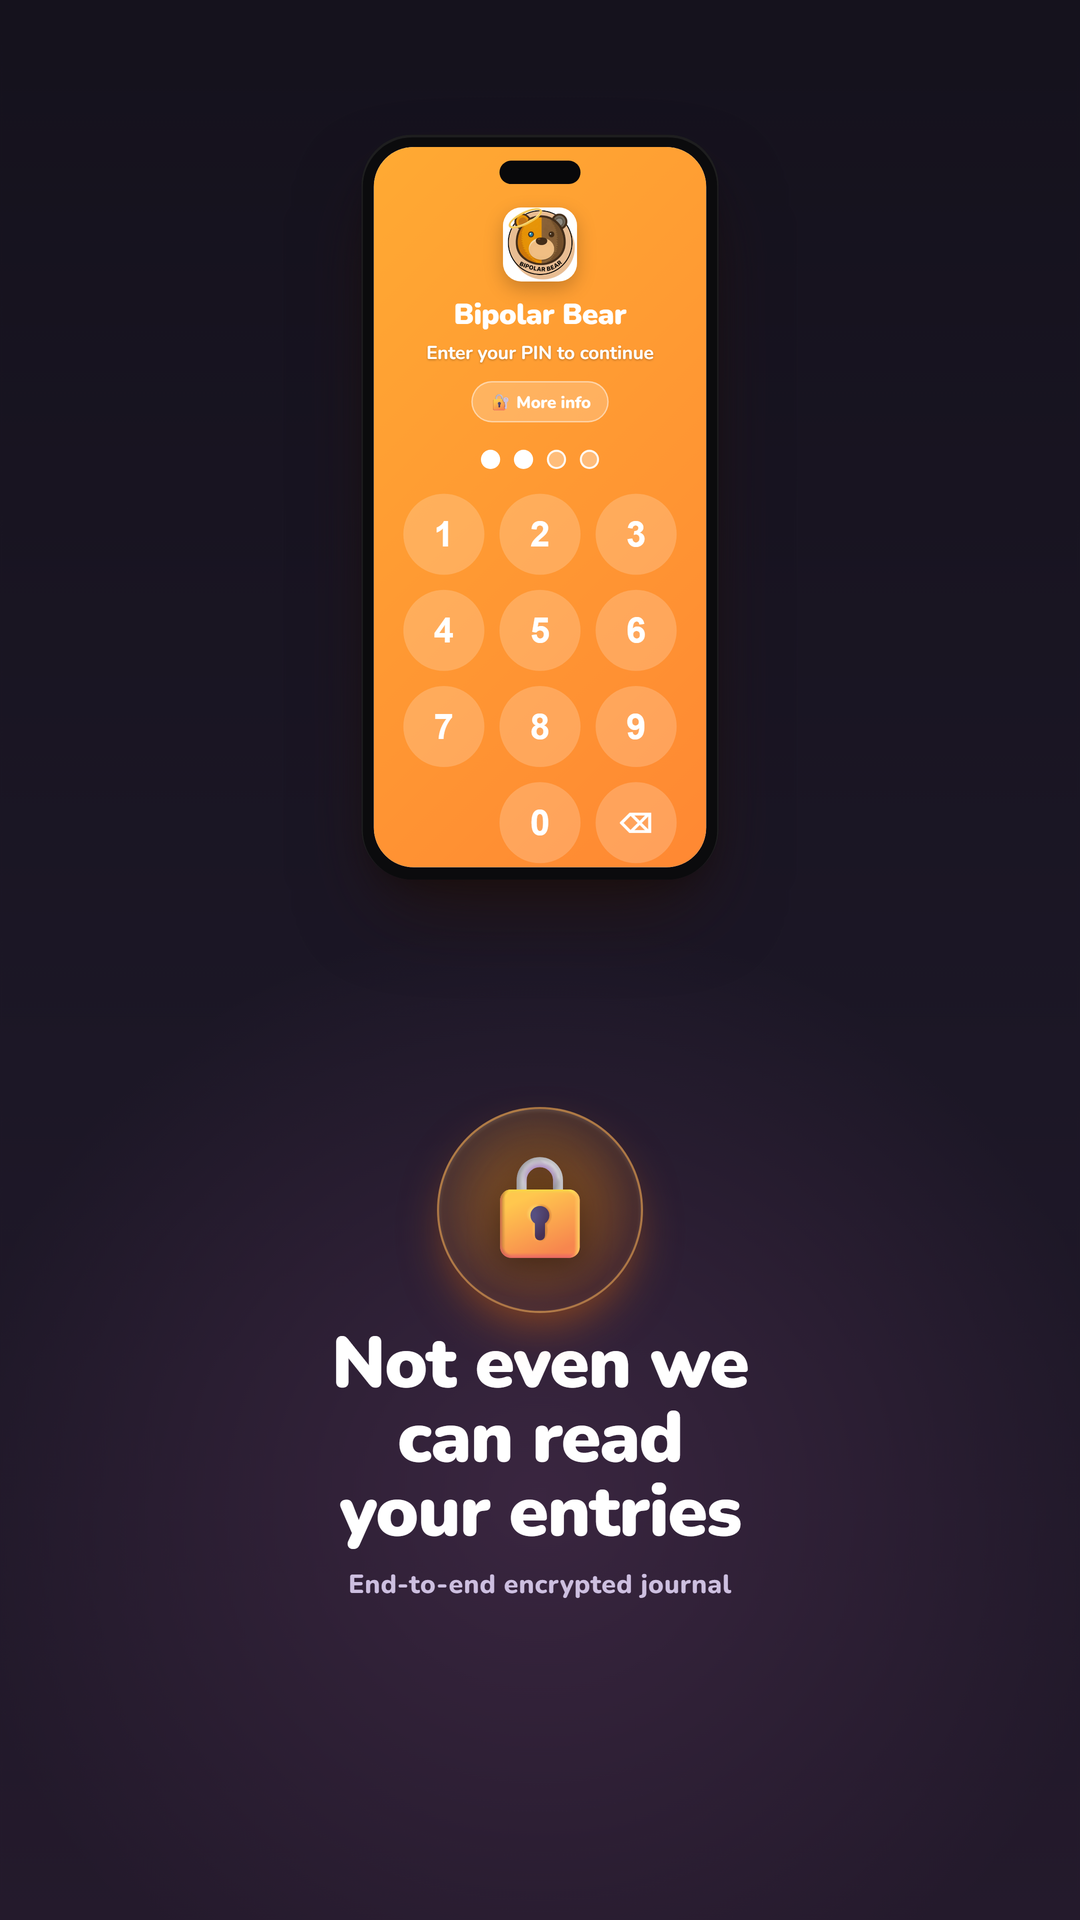
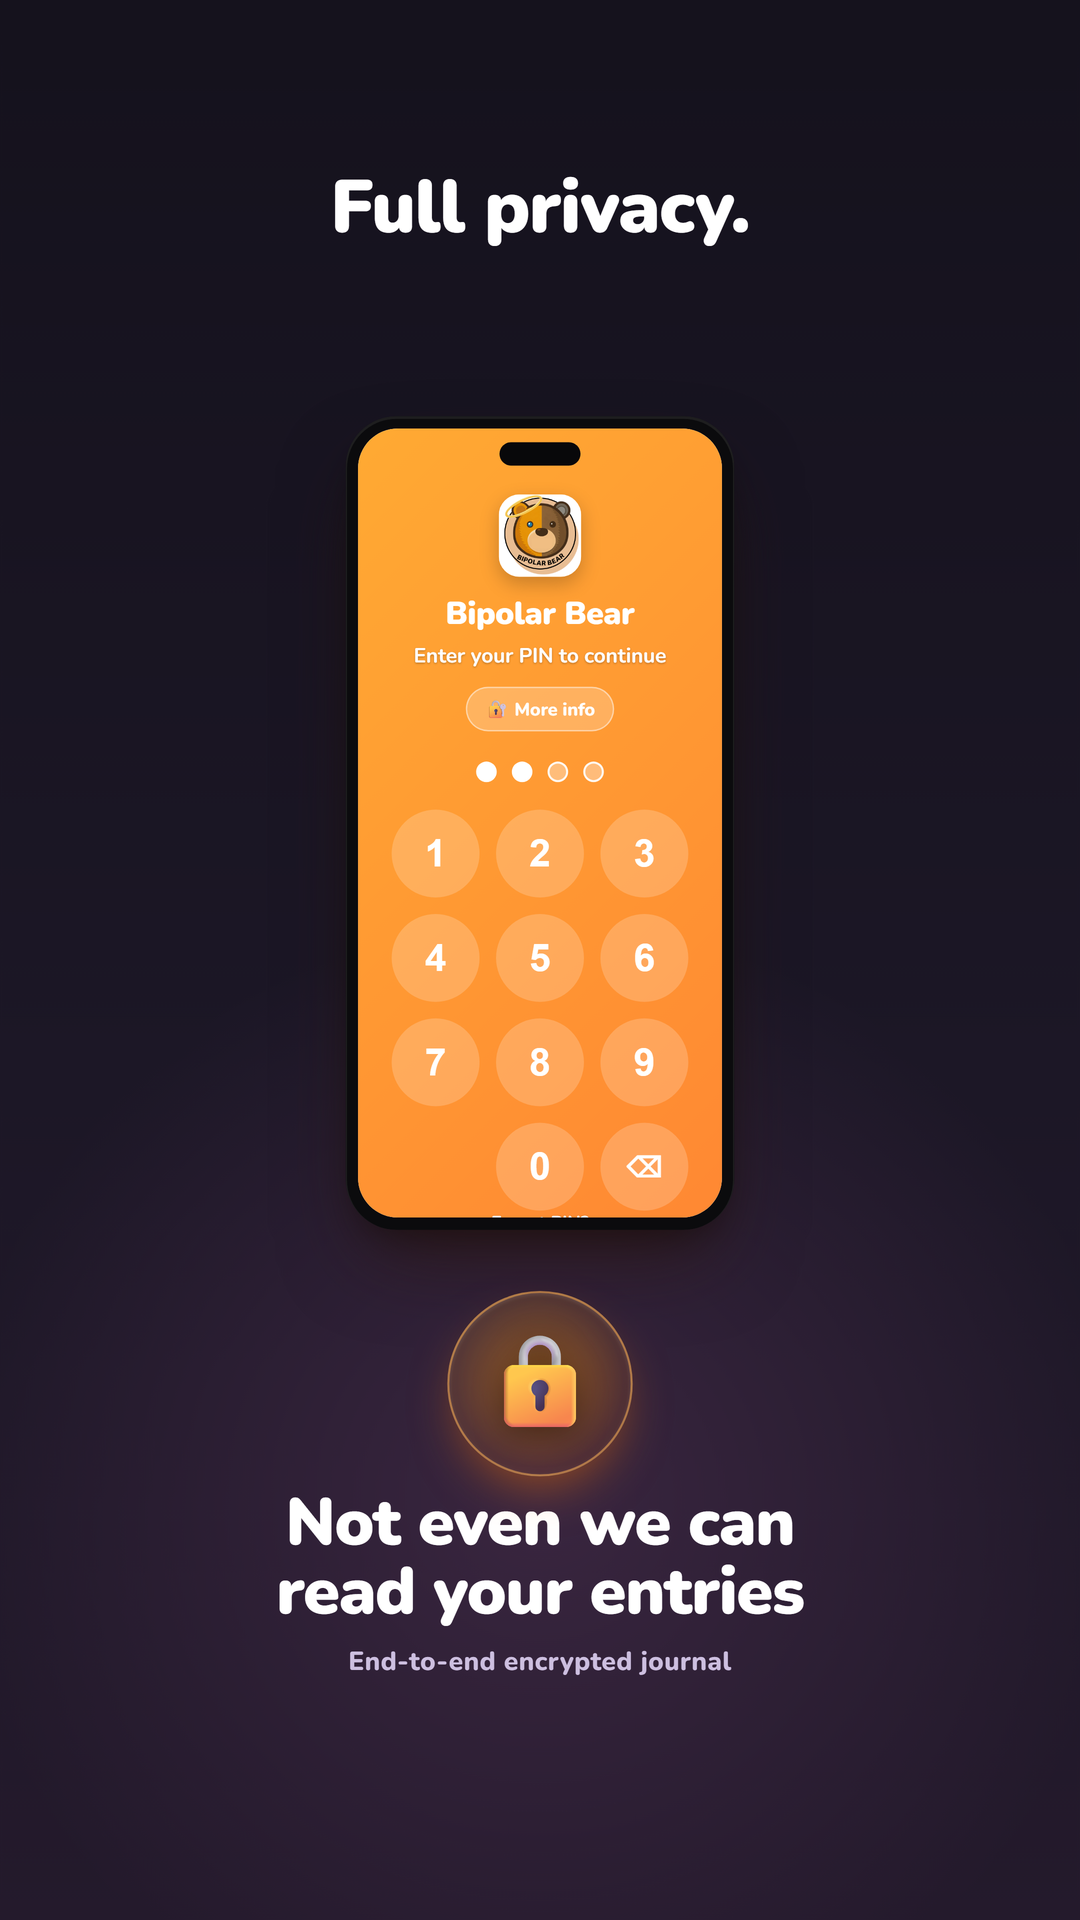
Tune PIN screenshot: standard phone position + 'Full privacy.' title
Restore phone to the shared device slot/size used by the other screens and add a top title ('Full privacy.') in the same copy slot. Padlock badge + 'Not even we can read your entries' promise sit below the phone.

Changed region(s): [[0.2444, 0.0625, 0.7639, 0.875]]

diff --git a/store-assets/screens/screen6-pin.html b/store-assets/screens/screen6-pin.html
@@ -5,8 +5,8 @@
 <link rel="stylesheet" href="../fonts.css">
 <link rel="stylesheet" href="shared.css">
 <style>
-  .stage{ --dev-w:520px; }
-  .device{ left:50%; top:196px; transform:translateX(-50%); }
+  .stage{ --dev-w:566px; }
+  .device{ left:50%; top:606px; transform:translateX(-50%); }
 
   /* The real app PIN overlay is full-bleed orange (no status bar / chrome),
      gradient matching index.html #guestPinOverlay. Kept orange so the live
@@ -14,55 +14,60 @@
   .pinui{ position:absolute; inset:0;
     background:linear-gradient(135deg, var(--orange-light) 0%, var(--orange-mid) 100%);
     display:flex; flex-direction:column; align-items:center;
-    padding:88px 40px 48px; color:#fff; }
+    padding:96px 44px 56px; color:#fff; }
 
-  .pin-icon{ width:108px; height:108px; border-radius:27px; display:block;
+  .pin-icon{ width:120px; height:120px; border-radius:30px; display:block;
     box-shadow:0 10px 28px rgba(0,0,0,.22); }
-  .pin-app{ font-family:'Nunito',sans-serif; font-weight:900; font-size:42px;
-    margin-top:20px; letter-spacing:-.01em; }
-  .pin-sub{ font-weight:700; font-size:27px; margin-top:9px;
+  .pin-app{ font-family:'Nunito',sans-serif; font-weight:900; font-size:46px;
+    margin-top:22px; letter-spacing:-.01em; }
+  .pin-sub{ font-weight:700; font-size:30px; margin-top:10px;
     text-shadow:0 1px 3px rgba(0,0,0,.28); }
-  .pin-info{ margin-top:22px; display:inline-flex; align-items:center; gap:9px;
+  .pin-info{ margin-top:24px; display:inline-flex; align-items:center; gap:10px;
     background:rgba(255,255,255,.22); border:2px solid rgba(255,255,255,.45);
-    color:#fff; border-radius:999px; padding:11px 24px; font-weight:800; font-size:24px; }
+    color:#fff; border-radius:999px; padding:12px 26px; font-weight:800; font-size:26px; }
 
-  .pin-dots{ display:flex; gap:20px; margin:40px 0 36px; }
-  .pin-dots i{ width:28px; height:28px; border-radius:50%;
+  .pin-dots{ display:flex; gap:22px; margin:44px 0 40px; }
+  .pin-dots i{ width:30px; height:30px; border-radius:50%;
     border:3px solid rgba(255,255,255,.9); background:rgba(255,255,255,.35); }
   .pin-dots i.on{ background:#fff; }
 
-  .pin-pad{ display:grid; grid-template-columns:repeat(3,118px); gap:22px; }
-  .pin-pad button{ width:118px; height:118px; border-radius:50%; border:none;
+  .pin-pad{ display:grid; grid-template-columns:repeat(3,128px); gap:24px; }
+  .pin-pad button{ width:128px; height:128px; border-radius:50%; border:none;
     background:rgba(255,255,255,.2); color:#fff; font-weight:700;
-    font-size:52px; line-height:1; display:flex; align-items:center; justify-content:center; }
-  .pin-pad .del{ font-size:40px; }
+    font-size:56px; line-height:1; display:flex; align-items:center; justify-content:center; }
+  .pin-pad .del{ font-size:44px; }
   .pin-pad .blank{ background:transparent; }
 
-  .pin-forgot{ margin-top:auto; font-weight:700; font-size:24px;
+  .pin-forgot{ margin-top:auto; font-weight:700; font-size:26px;
     text-decoration:underline; text-shadow:0 1px 3px rgba(0,0,0,.28); opacity:.96; }
 
   /* ── Padlock + privacy promise (below the phone) ── */
-  .lockwrap{ position:absolute; left:0; right:0; top:1612px; text-align:center; padding:0 70px; }
+  .lockwrap{ position:absolute; left:0; right:0; top:1880px; text-align:center; padding:0 70px; }
   .lockbadge{ position:relative; display:inline-flex; align-items:center; justify-content:center;
-    width:300px; height:300px; margin:0 auto 14px; }
-  .lockbadge::before{ content:""; position:absolute; inset:-40px; border-radius:50%;
+    width:270px; height:270px; margin:0 auto 18px; }
+  .lockbadge::before{ content:""; position:absolute; inset:-36px; border-radius:50%;
     background:radial-gradient(closest-side, rgba(255,149,0,.42), rgba(255,149,0,0) 72%); }
   .lockbadge .ring{ position:absolute; inset:0; border-radius:50%;
     background:linear-gradient(150deg, rgba(255,170,51,.20), rgba(255,107,0,.12));
     border:3px solid rgba(255,180,90,.55);
     box-shadow:0 30px 70px -20px rgba(255,120,0,.5), inset 0 2px 6px rgba(255,255,255,.12); }
-  .lockbadge .pad{ position:relative; font-size:150px; line-height:1;
+  .lockbadge .pad{ position:relative; font-size:136px; line-height:1;
     filter:drop-shadow(0 10px 22px rgba(0,0,0,.45)); }
 
   .lock-head{ font-family:'Nunito',sans-serif; font-weight:900; color:#fff;
-    font-size:104px; line-height:1.04; letter-spacing:-.015em; margin-top:6px; }
-  .lock-sub{ font-weight:800; font-size:38px; color:#cdbfe0; margin-top:26px;
+    font-size:96px; line-height:1.05; letter-spacing:-.015em; }
+  .lock-sub{ font-weight:800; font-size:38px; color:#cdbfe0; margin-top:24px;
     letter-spacing:.02em; }
 </style>
 </head>
 <body>
 <div class="canvas bg-dark on-dark">
 <div class="stage">
+
+  <!-- copy (title at top, same slot as the other screens) -->
+  <div class="copy" style="top:0;height:606px;display:flex;flex-direction:column;justify-content:center;">
+    <div class="headline sm">Full privacy.</div>
+  </div>
 
   <!-- iPhone showing the PIN lock screen -->
   <div class="device">
@@ -88,7 +93,7 @@
   <!-- padlock + privacy promise -->
   <div class="lockwrap">
     <div class="lockbadge"><span class="ring"></span><span class="pad">🔒</span></div>
-    <div class="lock-head">Not even we<br>can read<br>your entries</div>
+    <div class="lock-head">Not even we can<br>read your entries</div>
     <div class="lock-sub">End-to-end encrypted journal</div>
   </div>
 
